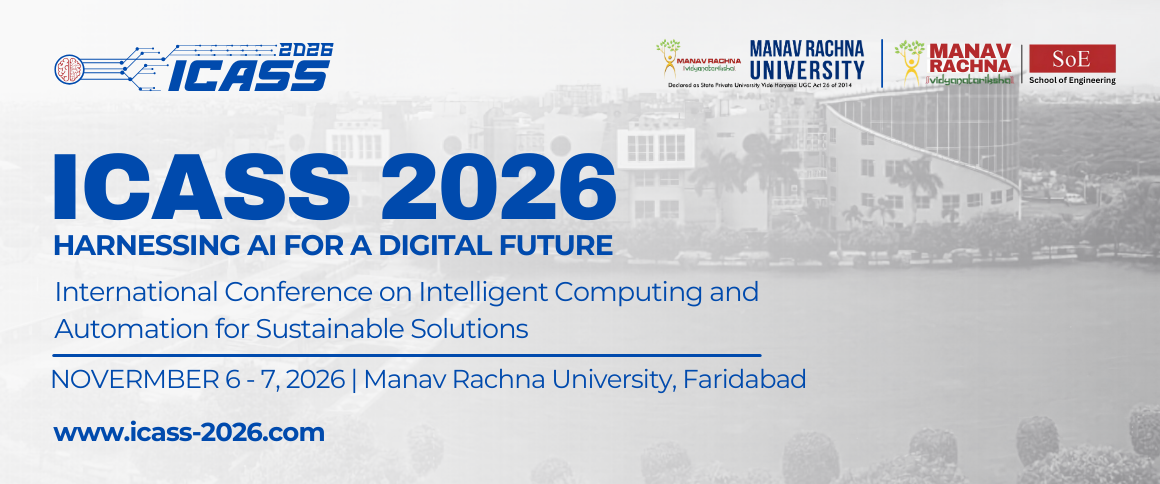
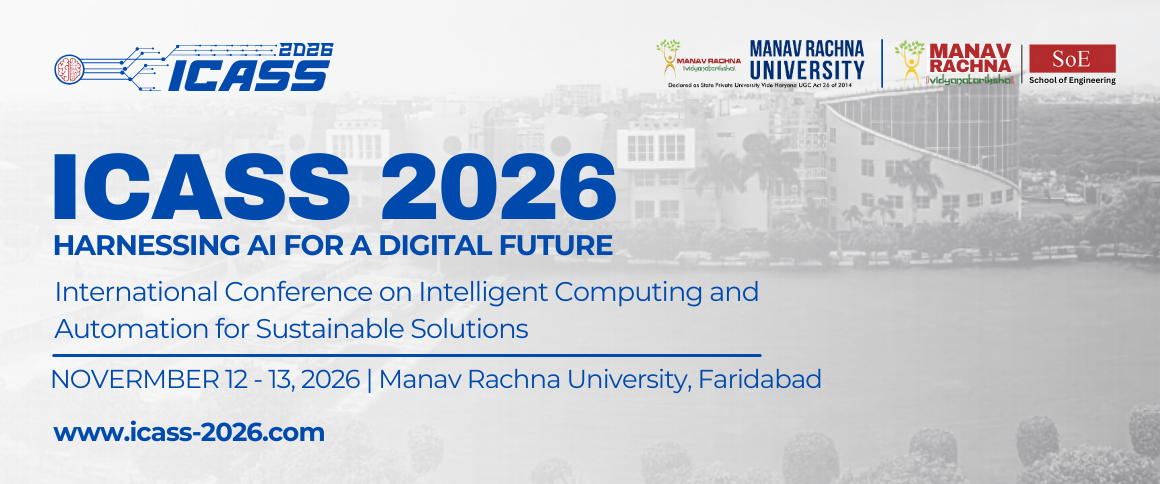
changes in home page

Changed region(s): [[0.1862, 0.7438, 0.7138, 0.8058]]

diff --git a/src/pages/Home.jsx b/src/pages/Home.jsx
@@ -1,5 +1,6 @@
 import React from "react";
 import { assets } from "../assets/assets";
+import { NavLink } from "react-router-dom";
 
 const Home = () => {
   return (
@@ -22,7 +23,7 @@ const Home = () => {
           &nbsp;&nbsp;&nbsp;&nbsp;&nbsp;&nbsp;&nbsp;&nbsp;&nbsp;&nbsp;&nbsp;&nbsp;&nbsp;&nbsp;&nbsp;&nbsp;&nbsp;&nbsp;&nbsp;
           Notification of Acceptance:- 10th January, 2026
           &nbsp;&nbsp;&nbsp;&nbsp;&nbsp;&nbsp;&nbsp;&nbsp;&nbsp;&nbsp;&nbsp;&nbsp;&nbsp;&nbsp;&nbsp;&nbsp;&nbsp;&nbsp;&nbsp;
-          Conference Date:- 6th - 7th February, 2026
+          Conference Date:- 12th - 13th February, 2026
         </marquee>
       </div>
 
@@ -35,10 +36,18 @@ const Home = () => {
           </h3>
           <hr className="bg-blue-700 border h-1 w-full my-2" />
           <p className="text-base md:text-lg text-gray-700 text-justify">
-            Lorem ipsum dolor, sit amet consectetur adipisicing elit. Similique
-            fugit doloribus deserunt labore. In, facilis excepturi ab aspernatur
-            quibusdam cupiditate nostrum temporibus laudantium! Omnis repellat
-            iste nulla accusamus, aliquam minima.
+            The{" "}
+            <b>
+              International Conference on Intelligent Computing and Automation
+              for Sustainable Solutions (ICASS-2026)
+            </b>{" "}
+            is a prestigious platform that brings together researchers,
+            academicians, industry experts, and practitioners to discuss and
+            share advancements in the fields of intelligent computing,
+            automation, and sustainable technologies. The primary focus of the
+            conference is to address the growing need for innovative solutions
+            that integrate cutting-edge technology with sustainability
+            principles to address global challenges.
           </p>
         </div>
         {/* About Manav Rachna University */}
@@ -48,24 +57,32 @@ const Home = () => {
           </h3>
           <hr className="bg-blue-700 border h-1 w-full my-2" />
           <p className="text-base md:text-lg text-gray-700 text-justify">
-            Manav Rachna University is a leader in educational excellence,
-            having recently received the prestigious NAAC Grade A accreditation
-            in June 2024. This honor highlights the dedication to providing
-            high-quality education and fostering an environment of academic
-            rigor and innovation. The status as a top-tier university is further
-            reinforced by achieving the Platinum band in the Outcome-Based
-            Education Rankings 2024, reflecting the strong focus on student
-            outcomes and academic effectiveness. Additionally, MRU has been
-            recognized in the Diamond band category under the Sustainable
-            Institutions of India Green Rankings 2024, underscoring the
-            commitment to sustainability and environmental stewardship. MRU has
-            also been ranked 5th amongst the Private and Deemed
-            Multidisciplinary Universities in the Delhi NCR region, according to
-            The Week-Hansa Research Best University Survey 2024. The School of
-            Engineering has received significant accolades, ranking 2nd in
-            Faridabad and 3rd in Haryana in the BW BusinessWorld Top Engineering
-            Institutes Ranking 2024. These achievements showcase the unwavering
-            commitment to excellence in engineering education and research.
+            Manav Rachna University (MRU){" "}
+            <NavLink
+              className={"text-blue-700 cursor-pointer"}
+              to={"http://mru.edu.in"}
+            >
+              (http://mru.edu.in)
+            </NavLink>{" "}
+            is a leader in educational excellence providing high-quality
+            education with an environment of academic rigor and innovation. The
+            university offers UG/PG/Doctoral programmes in various disciplines
+            including engineering, management, law, applied sciences, education
+            and humanities etc. It has recently received the prestigious NAAC
+            Grade A accreditation in June 2024 and Platinum band in the
+            Outcome-Based Education Rankings 2024. Additionally, the university
+            has been recognized in the Diamond band category under the
+            Sustainable Institutions of India Green Rankings 2024, underscoring
+            the commitment to sustainability and environmental stewardship. With
+            its striving vision and distinctive methodology, the university has
+            received QS I Gauge Overall Diamond rating, with a Platinum rating
+            in Academic Development & Employability and a Diamond rating in
+            Teaching Learning Process, Faculty Quality, Facilities and Social
+            Responsibility. MRU has also been ranked 5th in Delhi NCR & 20th in
+            North India under Private & Deemed Multidisciplinary Universities
+            category also ranked 13th nationally and 9th in North India among
+            Emerging Multidisciplinary Universities in the prestigious THE
+            WEEK 2024 rankings.
           </p>
         </div>
 
@@ -156,16 +173,19 @@ const Home = () => {
           </h3>
           <hr className="bg-blue-700 border h-1 w-full my-2" />
           <p className="text-base md:text-lg text-gray-700 text-justify">
-            <b>• Focus Areas:</b> Advanced computing, information security, AI,
-            and emerging trends in communication technologies.
+            <b>• Promote Research and Innovation:</b> To foster the exchange of
+            ideas and promote research in intelligent computing and automation
+            with an emphasis on sustainable practices.
           </p>
           <p className="text-base md:text-lg text-gray-700 text-justify">
-            <b>• Global Participation:</b> International researchers,
-            practitioners, and experts sharing cutting-edge research.
+            <b>• Encourage Collaboration:</b> To create opportunities for
+            collaboration among researchers, industries, and policymakers to
+            design eco-friendly and efficient systems.
           </p>
           <p className="text-base md:text-lg text-gray-700 text-justify">
-            <b>• Expert Sessions:</b> Keynote addresses and technical talks from
-            industry leaders and academic pioneers.
+            <b>• Showcase Emerging Technologies:</b> To provide a platform for
+            presenting breakthroughs in intelligent computing and automation
+            that contribute to sustainable development.
           </p>
         </div>
       </div>
